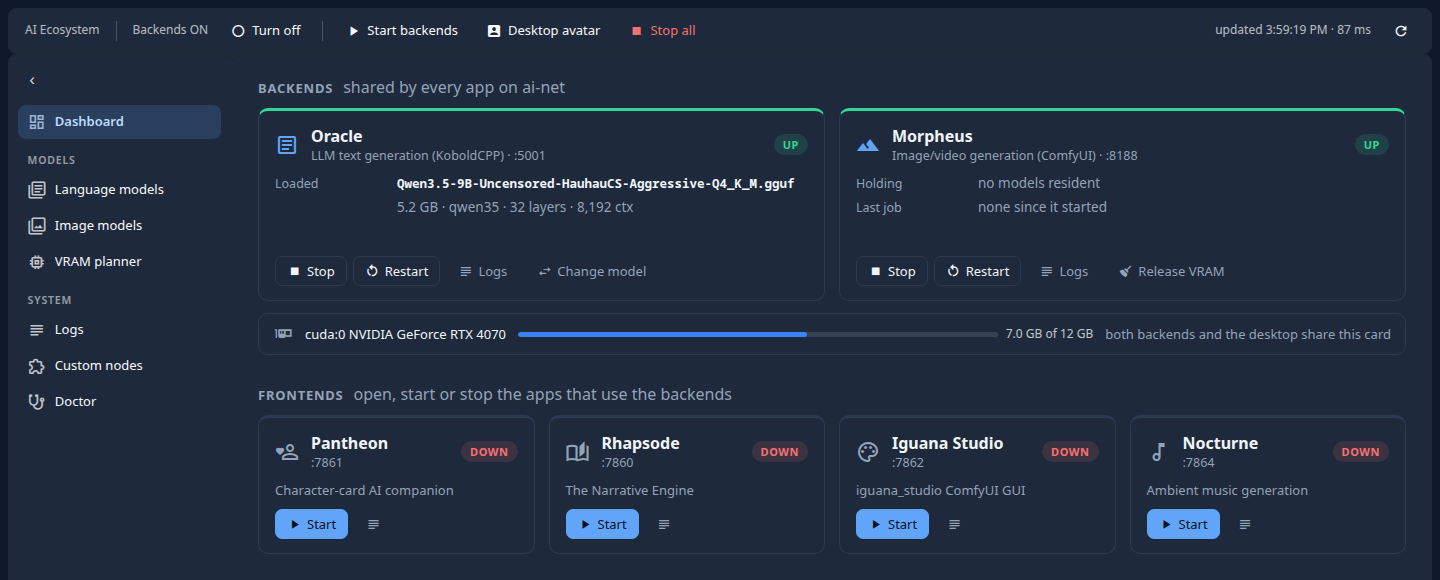
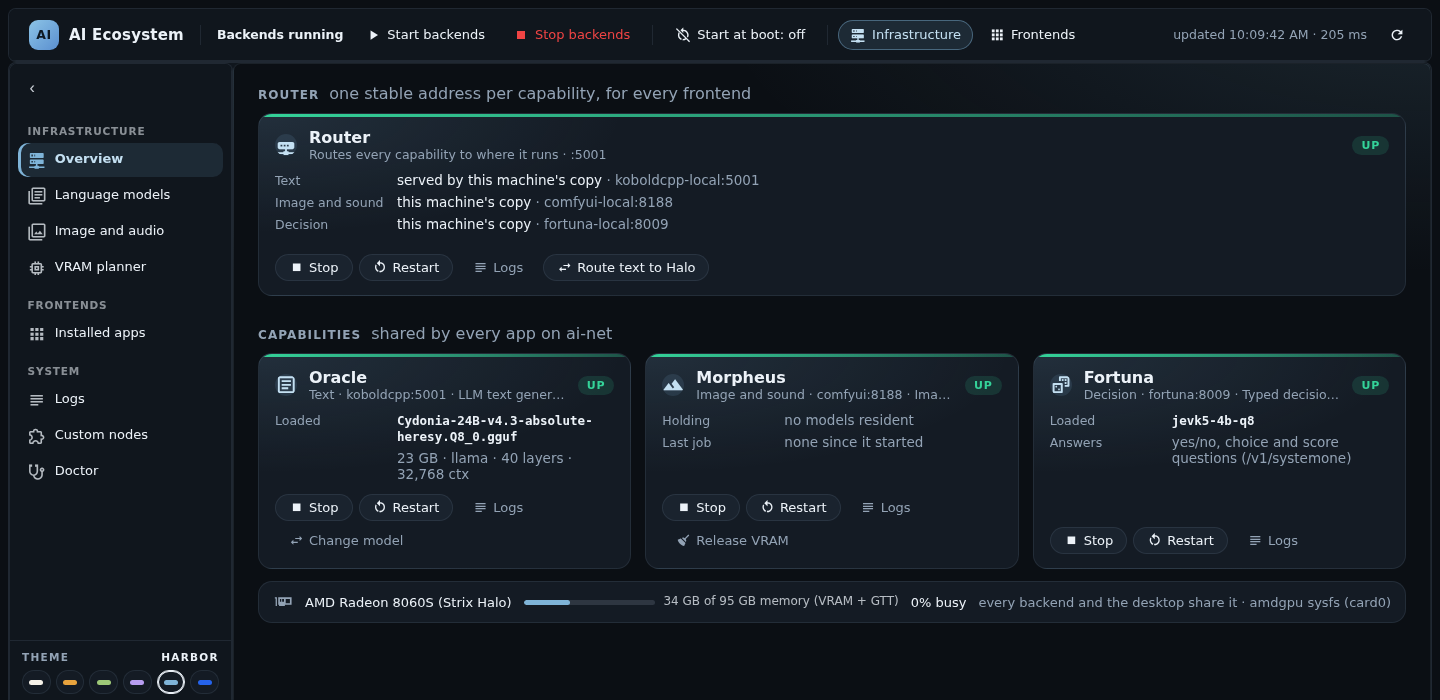
docs: the README describes the stack as it is now (#20)
The README covers the router and all three backends (KoboldCPP, ComfyUI, Fortuna), frontends
discovered by frontend.json, NVIDIA and AMD hosts, stack on/off vs stack boot, stack
fortuna-model, the dashboard on the LAN with no login, and links to the docs/ wiki. The
dashboard screenshot is current.

diff --git a/README.md b/README.md
@@ -1,208 +1,133 @@
 # ai-stack
 
-One command to run a local, self-hosted AI stack. It manages the shared GPU **backends**
-(LLM + image generation) and the **frontends** that use them — so you bring the backends up
-once, then pick whichever app you want.
+One command, `stack`, runs a local, self-hosted AI stack: shared GPU **backends** for text,
+image and sound, and decisions, behind one **router**; the **frontends** that use them; and
+**AI Ecosystem**, a dashboard for all of it. Bring the backends up once, then use whichever apps
+you want.
 
-**Documentation:** the [wiki](docs/wiki/README.md) has a user guide (install, running, the
-dashboard, models, frontends, troubleshooting) and a developer guide.
+**Documentation:** the [wiki](docs/wiki/README.md) has the full user guide (install, running,
+the dashboard, models, frontends, troubleshooting) and a developer guide.
 
-## Components
+![AI Ecosystem: the router, the text, image and decision backends with what each has loaded, and the GPU](stack-ui/docs/dashboard.png)
 
-**Backends (shared)** — both are Podman containers on the `ai-net` network, GPU via CDI.
+## What's in it
 
-| Backend | Port | What |
-|---|---|---|
-| **KoboldCPP** | 5001 | local LLM text generation |
-| **ComfyUI** | 8188 | image / video generation |
+**Backends** (shared by every app; all Podman containers on the `ai-net` network)
 
-**Frontends** (run side-by-side on their own ports, each its own repo)
+| Capability | Backend | Name on `ai-net` | On this machine |
+|---|---|---|---|
+| Text | **KoboldCPP** (GGUF models) | `http://koboldcpp:5001` | `localhost:5001` |
+| Image and sound | **ComfyUI** | `http://comfyui:8188` | `localhost:8188` (8189 where `host.env` sets `COMFYUI_PORT`) |
+| Decisions | **Fortuna**: yes/no, choice and score answers as calibrated probabilities | `http://fortuna:8009` | `127.0.0.1:8009` |
 
-| App | Port | Directory | Repo | What |
-|-----|------|-----------|------|------|
-| `companion` | 7861 | `companion/` | `JotunheimPress/npc_maker` | **Pantheon** — character-card AI companion |
-| `story` | 7860 | `ai_story_maker/` | `JotunheimPress/narrative_engine` | **Rhapsode** — the Narrative Engine |
-| `iguana` | 7862 | `iguana_studio/` | `JotunheimPress/iguana_studio` | ComfyUI web GUI |
+Every request goes through the **router** (nginx), which owns those names and ports. Frontends
+never need to know which copy serves them, and text can be moved to another machine with
+`stack route` without changing anything else.
 
-You only need the frontends you actually use; `stack` starts each on demand. The backends are
-useful on their own (KoboldCPP and ComfyUI both ship their own web UI).
+**Frontends** are separate repos, each with a `frontend.json`; the stack discovers whichever are
+cloned next to it (`stack frontends` lists them). Today's set includes Whimsy (`companion`, 7861),
+the Narrative Engine (`ai-story-maker`, 7860), Iguana Studio (7862), Nocturne (7864), the
+`npc_maker` and `narrative_engine` forks (7865, 7866) and Cantinero (`companion-assistant`, 7867).
 
-**Control**
-
-| App | Port | Directory | What |
-|-----|------|-----------|------|
-| `stackui` | 7863 | `stack-ui/` (in this repo) | **AI Ecosystem** — dashboard for the stack itself |
-
-A container like the rest, but one that controls the host: it mounts the podman socket and the
-user session bus so it can drive them, and runs with `--network=host` so the health probes work.
-It's bound to loopback and has no auth, so it is reachable only from this machine. `stack down all`
-deliberately leaves it running; stop it with `stack down stackui`.
+**AI Ecosystem** (`stack-ui/`, port 7863) is the control dashboard: start and stop, start at
+boot, what each backend has loaded, model downloads and selection (HuggingFace, Civitai,
+Fortuna's pinned files), the VRAM planner, logs, the doctor, and six colour themes.
 
 ## Requirements
 
-- **Podman** and an **NVIDIA GPU** with the container toolkit — `nvidia-smi` must work on the host
-  and `nvidia-ctk cdi list` must show `nvidia.com/gpu=all`. `stack doctor` checks both.
-- **git** (used to fetch pinned ComfyUI custom nodes) and **curl** (health checks).
-- Optional: `jq`, for the GPU-verification commands in the install guides.
+- **Podman** (rootless).
+- A GPU, detected automatically (pin it in `host.env`, from `host.env.example`):
+  - **NVIDIA** with the container toolkit: `nvidia-smi` works and `nvidia-ctk cdi list` shows
+    `nvidia.com/gpu=all`. The reference machine is an RTX 4070 (12 GB).
+  - **AMD** Strix Halo (gfx1151, 128 GB unified memory), on Vulkan or ROCm: `/dev/kfd`,
+    `/dev/dri`, and your user in `render` and `video`. See [`HALO_PLAN.md`](HALO_PLAN.md).
+- **git** and **curl**.
 
-Designed for an immutable Fedora/Bazzite workstation — nothing here needs `dnf install`, and
-distrobox is no longer used.
+`stack doctor` checks all of it.
 
 ## Install
 
 ```bash
 git clone https://github.com/JotunheimPress/ai-stack.git
 cd ai-stack
-./stack install          # idempotent — safe to re-run any time
+./stack install          # idempotent: safe to re-run any time
 ```
 
-`stack install` is the executable form of the two INSTALL guides, so they can't drift from the real
-thing. It checks prerequisites, links `stack` onto your PATH, renders the systemd unit for *this*
-checkout, creates the `ai-net` network, builds both backend images plus the AI Ecosystem
-dashboard, lays out `koboldcpp/` and `ComfyUI/` next to the checkout, and clones the pinned
-ComfyUI custom nodes.
+`stack install` checks prerequisites, puts `stack` on your PATH, installs the systemd unit for
+this checkout, creates `ai-net`, builds the backend images and the dashboard, lays out
+`koboldcpp/` and `ComfyUI/` next to the checkout, and clones the pinned ComfyUI custom nodes.
+Targets: `all` (default), `backends`, `router`, `koboldcpp`, `comfyui`, `fortuna`, `stackui`,
+`service`, `path`.
 
-Targets: `all` (default) · `backends` · `koboldcpp` · `comfyui` · `stackui` · `service` · `path`.
-
-**It never downloads model weights** — they're third-party and ~73 GB. A fresh install therefore
-ends with *"install done, N item(s) need you"*: the images are built, but nothing can start until
-you supply at least
-
-- a **GGUF** in `koboldcpp/models/` — see [`koboldcpp/INSTALL.md`](koboldcpp/INSTALL.md) §2
-- a **checkpoint** in `ComfyUI/models/checkpoints/` — see [`comfyui/INSTALL.md`](comfyui/INSTALL.md) §8
-  (start with `absolutereality_v181`, 2 GB)
-
-Install reports exactly what's missing and where it goes. Then:
+**It never downloads model weights.** A fresh install ends with *"install done, N item(s) need
+you"* and says what's missing: a GGUF for KoboldCPP, a checkpoint for ComfyUI, a model file for
+Fortuna. Get them from the dashboard's model screens, `stack fortuna-model fetch NAME`, or by hand
+([`koboldcpp/INSTALL.md`](koboldcpp/INSTALL.md) §2, [`comfyui/INSTALL.md`](comfyui/INSTALL.md) §8).
+Then:
 
 ```bash
-stack doctor             # read-only: prerequisites + what's installed, changes nothing
-stack on                 # start the backends now
-stack boot on            # and at every boot (optional; a separate setting)
+stack doctor        # read-only check of everything
+stack on            # start the backends now
+stack boot on       # optional: also start them at every boot (+ loginctl enable-linger)
+stack stackui       # the dashboard: http://localhost:7863
 ```
 
-The two INSTALL guides cover the rest — reference hardware, version pins, the flags that matter,
-how to verify the GPU is actually visible, and the model shopping list.
+The dashboard reaches the host's podman through your user's socket:
+`systemctl --user enable --now podman.socket`.
 
 ### Frontends
 
-Clone the ones you want as **siblings** of this checkout. Directory names differ from the repo
-names, so pass the target explicitly:
+Clone the ones you want into the same parent directory as `ai-stack/`, then start one by its
+repo name, e.g. `stack iguana_studio`. Each builds its own image on its first start; see its own
+README. They are private repos; ask for access.
 
 ```bash
-cd ..                                                              # the ecosystem root
-git clone https://github.com/JotunheimPress/npc_maker.git        companion
-git clone https://github.com/JotunheimPress/narrative_engine.git ai_story_maker
-git clone https://github.com/JotunheimPress/iguana_studio.git    iguana_studio
-git clone https://github.com/JotunheimPress/muninn.git           muninn   # memory library; companion and ai_story_maker build against it
+cd ..
+git clone https://github.com/JotunheimPress/iguana_studio.git
+git clone https://github.com/JotunheimPress/nocturne.git
+git clone https://github.com/JotunheimPress/muninn.git    # memory library some frontends build against
 ```
-
-Each builds its own image on first `stack <app>`; see that repo's own README/`CLAUDE.md` for its
-configuration. They're separate private repos — ask for access.
-
-### AI Ecosystem (the control dashboard)
-
-![AI Ecosystem dashboard: the two backends with KoboldCPP's loaded model and ComfyUI's VRAM, GPU use, and the frontends below](stack-ui/docs/dashboard.png)
-
-The home screen shows the shared backends and what each has loaded, then the frontends; the
-sidebar has the model managers (installed GGUFs + HuggingFace search, ComfyUI files + Civitai),
-the VRAM planner, logs, custom-node pins and the doctor. Built with pytincture + wapyt.
-
-Ships in this repo (`stack-ui/`) and is built by `stack install`, so there's nothing extra to clone:
-
-```bash
-stack install stackui                        # or just `stack install`
-systemctl --user enable --now podman.socket  # how it reaches the host engine
-stack stackui                                # serves http://localhost:7863
-```
-
-`stack install` warns if that socket isn't active — without it the dashboard builds fine and then
-can't do anything.
 
 ## Usage
 
 ```bash
-stack on          # start the backends now (same as stack up)
-stack off         # stop them now — frees the GPU to game (same as stack down backends)
-stack boot on|off # whether they start at boot — separate; starts or stops nothing now
-stack             # interactive: show status, ensure backends, then pick a frontend
-stack up          # start the backends now
-stack status      # what's running (+ whether it starts at boot)
-stack companion   # launch a frontend  (companion | story | iguana)
-stack stackui     # launch AI Ecosystem, the dashboard, on :7863
-stack down        # stop everything    (also: down backends | down frontends | down <app>)
-                  #   — leaves stackui alone; stop that with `down stackui`
+stack on | off           # start / stop the backends now (never changes start at boot)
+stack boot [on|off]      # start at boot: show / set (never starts or stops anything now)
+stack                    # interactive: status, start the backends, pick a frontend
+stack status             # what's up, and whether the backends start at boot
+stack <app>              # start one app: a backend, stackui, or a frontend by repo name
 stack restart <app>
 stack logs <app>
-stack install [target]   # one-time setup, idempotent
-stack doctor             # check prerequisites + what's installed
+stack down               # stop everything except the dashboard (also: down backends | frontends | <app>)
+stack frontends          # the installed frontends
+stack route [local|halo] # where text is served
+stack fortuna-model [list | fetch NAME | verify NAME]
+stack install [target]
+stack doctor
 ```
 
-## Other devices on the LAN
+**To free the GPU for a game:** `stack off`, plus `stack boot off` if it should stay off after a
+reboot.
 
-Every app answers on the whole local network over plain HTTP, no extra setup:
-`http://<hostname>.local:7861` (Pantheon), `:7860` (Rhapsode), `:7862` (Iguana Studio), `:7864`
-(Nocturne). Pantheon asks for its own accounts; the others have no login. It is a local product
-for whoever installs it. Browsers allow the microphone only on this computer or over HTTPS, so
-Pantheon's voice input works here but not from a phone. The dashboard is on the LAN too, at
-`:7863`.
+## On the LAN
 
-## Game ⇄ AI
-
-`stack off` stops every backend now, freeing all GPU memory for gaming; `stack on` starts them
-again. Whether they start at boot is a separate setting: `stack boot off` keeps them off after a
-reboot too, `stack boot on` brings them up at every boot. In the dashboard these are the
-*Start/Stop backends* buttons and the *Start at boot* toggle.
-
-Both backends share **12 GB of VRAM** on the reference machine: a ~9B LLM at Q4 plus an SD 1.5
-checkpoint fits, an LLM plus SDXL does not. ComfyUI also holds VRAM after a job — see the
-`/free` call in [`comfyui/CLAUDE.md`](comfyui/CLAUDE.md).
-
-## Boot auto-start
-
-A systemd **user** service (`ai-stack-backends.service`) brings the backends up at login/boot so
-they're ready and you just pick a frontend. `stack install service` renders and installs it —
-the shipped file is a template whose `@SELF@` placeholder becomes this checkout's path, so it
-works wherever you cloned. Don't `cp` it by hand.
-
-```bash
-loginctl enable-linger   # optional: start at boot even before you log in
-stack boot on            # start at every boot (stack boot off to stop that)
-```
-
-## How it works
-
-- Containers share the **`ai-net`** Podman network and reach the backends by name through one
-  router — `http://koboldcpp:5001` (text), `http://comfyui:8188` (image and sound) and
-  `http://fortuna:8009` (decision). The router also publishes them to the host
-  (`localhost:5001`, `localhost:8188` or the `COMFYUI_PORT` in `host.env`, `127.0.0.1:8009`).
-- The app list is a small **registry** at the top of the `stack` script — adding a new frontend is
-  one row plus one start line.
-- Backend recipes live in this repo (`koboldcpp/`, `comfyui/`) and are the canonical copies;
-  `stack install` wires them into the sibling directories where they run, so what you run and what
-  you publish can't diverge.
+Every app answers on the whole local network over plain HTTP at `http://<hostname>.local:<port>`,
+including the dashboard on `:7863`. **The dashboard has no login**, so anyone on your network
+can drive the stack. Browsers allow the microphone only on this computer or over HTTPS; frontends
+that need it from a phone offer an HTTPS port (see [Frontends](docs/wiki/frontends.md)).
 
 ## Layout
 
-`stack` expects the projects as **sibling directories** next to this checkout:
-
 ```
-ai_ecosystem/
-├── ai-stack/       # this repo
-├── koboldcpp/      # backend — created by `stack install`; you add models/
-├── ComfyUI/        # backend state — created by `stack install`; you add models/
-├── companion/      # frontend — you clone
-├── ai_story_maker/ # frontend — you clone
-└── iguana_studio/  # frontend — you clone
+ai_ecosystem/            # the ecosystem root ($AI_ECOSYSTEM, else this checkout's parent)
+├── ai-stack/            # this repo: stack, the recipes, the dashboard
+├── koboldcpp/           # made by stack install: links into ai-stack/koboldcpp + your models/
+├── ComfyUI/             # ComfyUI's state: models, input, output, user, custom_nodes
+├── fortuna/             # Fortuna's models/ and fortuna.env
+├── router/              # route.conf: where text goes
+└── <frontends>/         # the frontends you cloned
 ```
 
-The two backend directories are made for you: `koboldcpp/` is a symlink farm back into this repo
-plus a real `models/`, and `ComfyUI/` holds only mutable state (`models`, `input`, `output`, `user`,
-`custom_nodes`) — the ComfyUI code itself ships inside the image, so there's no upstream checkout to
-clone.
-
-The root is found automatically from the script's own location, so cloning side by side is all
-that's needed — nothing to configure. To keep the projects elsewhere, set `AI_ECOSYSTEM`:
-
-```bash
-export AI_ECOSYSTEM=/path/to/your/projects
-```
+Recipes (Containerfiles, start scripts, configs) live in this repo; state lives in the sibling
+directories and is never committed. More in the wiki's [Architecture](docs/wiki/architecture.md)
+page and in [`CLAUDE.md`](CLAUDE.md).
